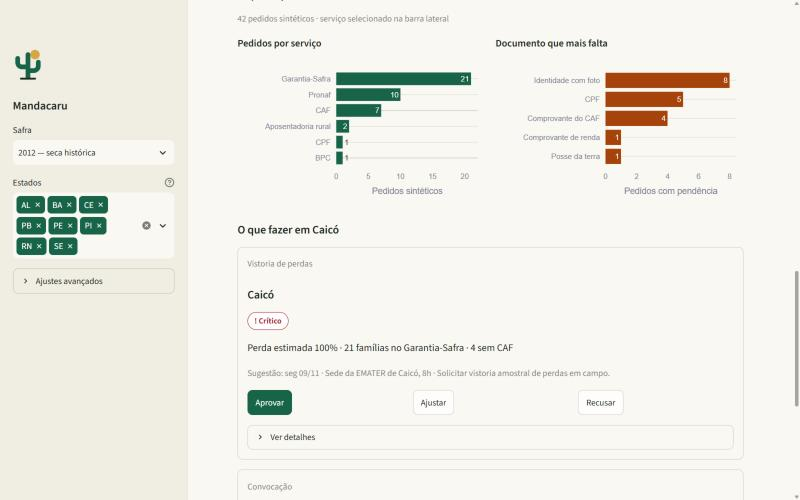
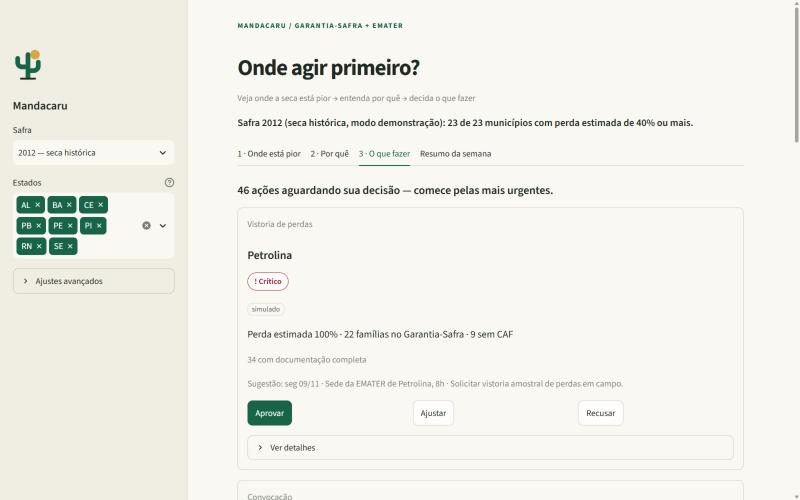
Prints novos no README e acabamento visual do estimado × real
- Prints das abas 1, 2 e 3 com a interface atual e novo print do placar.
- Cartões de perda real colorem pela escala de risco; percentuais inteiros.
- Gráfico de produção rotula a safra escolhida (ex.: "0 t" em 2012).
- Placar com rótulos curtos e vírgula decimal no Spearman.

diff --git a/features/municipio.py b/features/municipio.py
@@ -1,7 +1,9 @@
 """Raio-x: evidências climáticas e obstáculos de atendimento municipais."""
+import pandas as pd
 import streamlit as st
 
 from pipelines.demanda import por_servico
+from pipelines.risco import classificar
 from features.decisoes import acoes_municipio
 from state import dados, store
 from ui.componentes import badge_risco, como_calculamos, kpi, percentual, selo_simulado
@@ -24,7 +26,7 @@ def renderizar(ctx, cfg, filtros, versao):
     st.caption(f"Safra completa {filtros['ano']} · {cfg['modelo_hidrico']['culturas'][filtros['cultura']]['nome']}")
     a, b, c, d = st.columns(4)
     with a:
-        kpi("Perda estimada", percentual(linha.perda_estimada_pct), cor=linha.classe)
+        kpi("Perda estimada", percentual(linha.perda_estimada_pct, 0), cor=linha.classe)
         if not linha.estimavel:
             st.caption("estimativa a partir de 1º de março")
     with b:
@@ -99,9 +101,11 @@ def retrospectiva(codigo, linha, cfg, filtros, versao):
             st.caption(f"Produção de {filtros['cultura']} (IBGE/PAM) · safra {ano} em vermelho")
             r1, r2 = st.columns(2)
             with r1:
-                kpi("Perda real (IBGE)", percentual(valor, 0), "produção × média dos dez anos anteriores")
+                kpi("Perda real (IBGE)", percentual(valor, 0), "produção × média dos dez anos anteriores",
+                    classificar(valor, cfg) if pd.notna(valor) else "seguro")
             with r2:
-                kpi("Perda estimada pelo painel", percentual(linha.perda_estimada_pct, 0), "só chuva (modelo hídrico)")
+                kpi("Perda estimada pelo painel", percentual(linha.perda_estimada_pct, 0), "só chuva (modelo hídrico)",
+                    linha.classe)
             st.caption("Perda real relativa à produção média dos dez anos anteriores; retrospectiva, sem alterar prioridades.")
         except (OSError, ValueError):
             st.warning("Produção IBGE indisponível no arquivo local.")

diff --git a/ui/componentes.py b/ui/componentes.py
@@ -107,11 +107,11 @@ def validacao_retrospectiva(cfg, filtros):
     st.markdown(f"**Placar no critério de {cfg['risco']['criterio_garantia_safra']}%** "
                 "(cada ponto é um município em uma safra)")
     q1, q2, q3, q4 = st.columns(4)
-    q1.metric("Acertou: houve perda", int(matriz.loc[True, True]))
-    q2.metric("Acertou: não houve perda", int(matriz.loc[False, False]))
-    q3.metric("Perda que o modelo não viu", int(matriz.loc[False, True]))
+    q1.metric("Acerto: perda", int(matriz.loc[True, True]))
+    q2.metric("Acerto: sem perda", int(matriz.loc[False, False]))
+    q3.metric("Perda não vista", int(matriz.loc[False, True]))
     q4.metric("Alarme falso", int(matriz.loc[True, False]))
-    correlacao = f"{placar['spearman']:.2f}" if pd.notna(placar['spearman']) else "indisponível"
+    correlacao = f"{placar['spearman']:.2f}".replace(".", ",") if pd.notna(placar['spearman']) else "indisponível"
     st.caption(f"Critério {cfg['risco']['criterio_garantia_safra']}% · Acurácia: {percentual(placar['acuracia'] * 100)} · "
                f"Spearman: {correlacao}")
     st.caption(f"{placar['pares_validos']} pares válidos · {placar['pares_excluidos']} excluídos por falta de medida.")

diff --git a/features/panorama.py b/features/panorama.py
@@ -2,6 +2,7 @@
 import pandas as pd
 import streamlit as st
 
+from pipelines.risco import classificar
 from state import dados, store
 from ui.componentes import abrir_raio_x, badge_risco, como_calculamos, kpi, percentual, selo_simulado
 from ui import tema
@@ -45,7 +46,9 @@ def renderizar(ctx, cfg, filtros, versao, malhas):
         kpi("Pedidos de agricultores", f"{quadro.pedidos.sum():,}".replace(",", "."), "Pedidos da safra inteira")
         selo_simulado()
     with d:
-        kpi("Perda real (IBGE)", percentual(quadro.perda_producao_pct.median(), 0), "Mediana municipal · safra completa")
+        mediana_real = quadro.perda_producao_pct.median()
+        kpi("Perda real (IBGE)", percentual(mediana_real, 0), "Mediana municipal · safra completa",
+            classificar(mediana_real, cfg) if pd.notna(mediana_real) else "seguro")
         if filtros["ano"] > cfg["fontes"]["pam_fim"]:
             st.caption("Dados reais ainda não publicados (o IBGE publica a safra no ano seguinte)")
     mapa, lista = st.columns([2.1, 1])

diff --git a/ui/graficos.py b/ui/graficos.py
@@ -64,6 +64,11 @@ def producao_real(quadro, ano, anos_media, altura):
     fig = px.bar(recorte, x="ano", y="producao_t", labels={"ano": "Ano", "producao_t": "Produção (t)"})
     fig.update_traces(marker_color=cores, hovertemplate="%{x}: %{y:,.0f} t<extra></extra>")
     fig.update_xaxes(dtick=1)
+    atual = recorte.loc[recorte.ano.eq(ano), "producao_t"]
+    if not atual.empty and pd.notna(atual.iloc[0]):
+        fig.add_annotation(x=ano, y=atual.iloc[0], yshift=12, showarrow=False,
+                           text=f"<b>{atual.iloc[0]:,.0f} t</b>".replace(",", "."),
+                           font=dict(color=CORES["critico"]))
     media = recorte.loc[recorte.ano.eq(ano), "producao_media_10_anos_t"]
     if not media.empty and pd.notna(media.iloc[0]):
         fig.add_hline(y=media.iloc[0], line_dash="dash", line_color=CORES["muted"],
